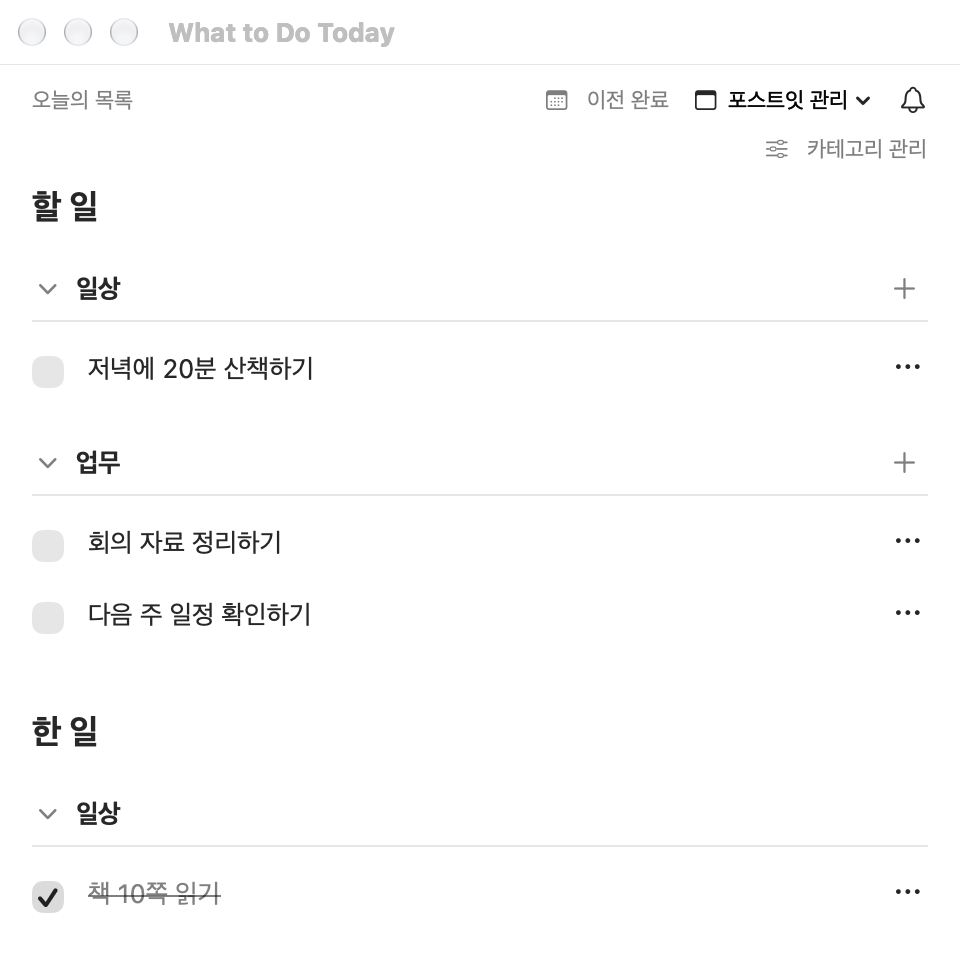
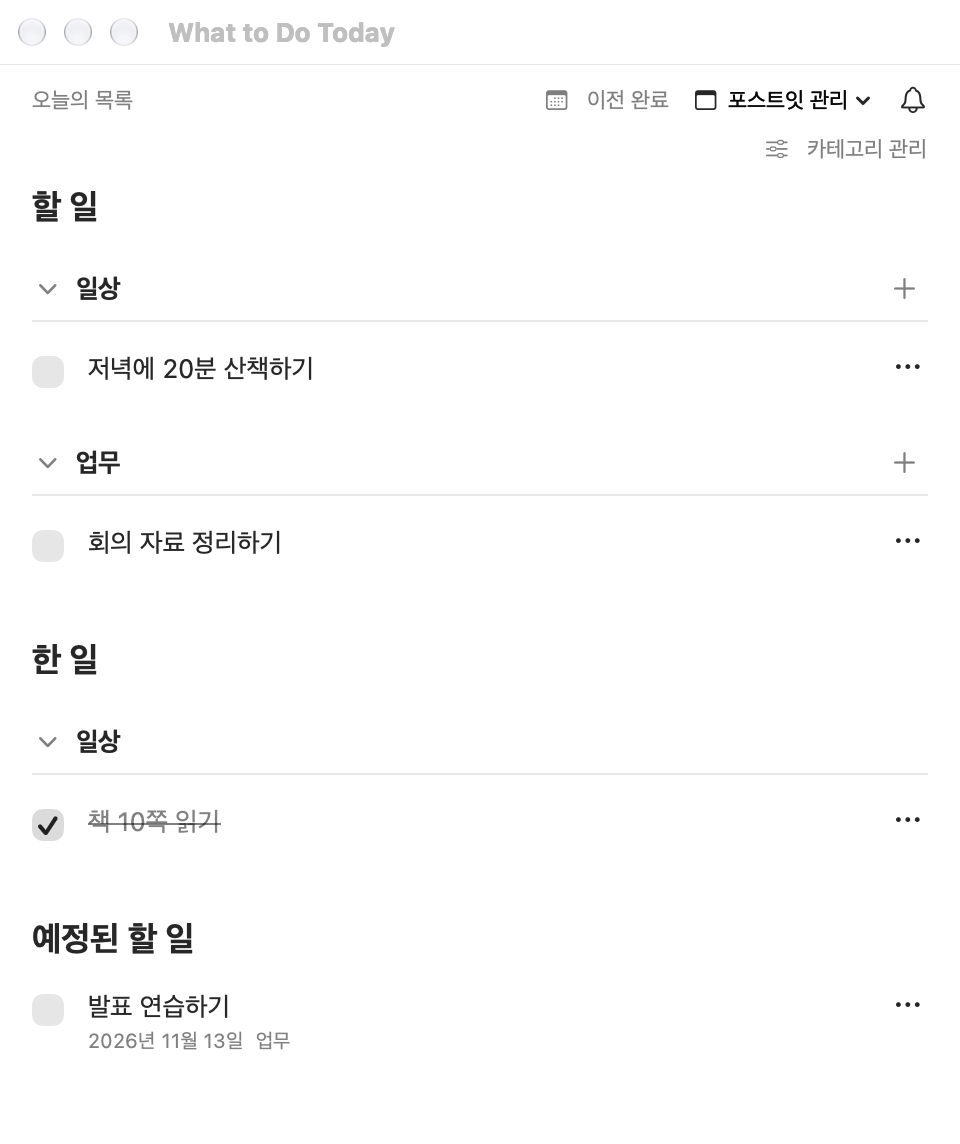
fix: guard widget updates and prepare v1.3.0 downloads

diff --git a/README.md b/README.md
@@ -10,24 +10,25 @@
 </p>
 
 <p align="center">
-  <a href="https://github.com/choubung/what-to-do-today/releases/latest"><strong>최신 릴리즈 받기</strong></a>
-  · <a href="docs/build.md">Xcode로 설치하기</a><br>
-  <sub>macOS 27.0.1 이상 · 앱 사용에 계정 가입 불필요</sub>
+  <a href="https://github.com/choubung/what-to-do-today/archive/refs/tags/v1.3.0.zip"><strong>v1.3.0 소스 ZIP 다운로드</strong></a>
+  · <a href="docs/build.md">설치 안내</a>
+  · <a href="https://github.com/choubung/what-to-do-today/releases/latest">최신 릴리즈</a><br>
+  <sub>macOS 27.0.1 이상 · Xcode로 빌드하는 소스 배포</sub>
 </p>
 
 <p align="center">
-  <img src="docs/images/app-preview.png" width="480" alt="일상과 업무 카테고리의 할 일과 완료 항목을 보여주는 앱 화면">
+  <img src="docs/images/app-preview.png" width="480" alt="오늘 할 일, 완료한 항목, 예정된 할 일을 보여주는 앱 화면">
 </p>
 
-## 시작하기
+## 설치하고 시작하기
 
-1. 릴리즈에 DMG가 있으면 열어서 **Install What to Do Today.command**를 실행합니다. 소스로 설치하려면 Xcode에서 빌드한 뒤 설치 스크립트를 실행하세요. [최신 릴리즈](https://github.com/choubung/what-to-do-today/releases/latest) · [빌드 및 설치 안내](docs/build.md)
-2. 앱의 **할 일**에서 카테고리 옆 **＋**를 눌러 첫 항목을 추가합니다. 새 카테고리는 **카테고리 관리**에서 만들 수 있습니다.
-3. 바탕화면을 우클릭하고 **위젯 편집**에서 **할 일** 위젯을 추가합니다. 중형은 한 페이지에 3개, 대형은 8개를 표시합니다.
+1. 위 소스 ZIP을 내려받아 압축을 풀고, [설치 안내](docs/build.md)에 따라 Xcode로 빌드한 뒤 설치합니다.
+2. 앱의 **할 일**에서 카테고리 옆 **＋**로 첫 항목을 추가합니다. 내일 할 일이라면 **날짜 지정**을 켭니다.
+3. 바탕화면을 우클릭하고 **위젯 편집**에서 **할 일** 위젯을 추가합니다. 위젯에서도 완료를 체크하거나 새 할 일을 적을 수 있습니다.
 
 `⌘N`으로 작은 입력 창을, `⌘1`으로 목록을 엽니다. 위젯의 **＋**도 작은 입력 창을 엽니다.
 
-업데이트할 때는 앱을 `⌘Q`로 종료하고 같은 설치 도구를 실행하세요. 새 앱을 설치한 뒤 이전 위젯 프로세스를 종료하고 목록을 다시 불러옵니다.
+이미 설치했다면 앱을 `⌘Q`로 종료하고 [업데이트 절차](docs/build.md#설치-및-업데이트)를 따르세요. 설치 도구가 위젯도 함께 다시 시작합니다.
 
 ## 이렇게 사용하세요
 

diff --git a/docs/build.md b/docs/build.md
@@ -1,6 +1,6 @@
 # 직접 빌드하기
 
-macOS 27.0.1 이상과 macOS 27 SDK를 포함한 Xcode가 필요합니다. [GitHub 릴리즈](https://github.com/choubung/what-to-do-today/releases/latest)에서 소스를 받거나 저장소를 복제하세요.
+macOS 27.0.1 이상과 macOS 27 SDK를 포함한 Xcode가 필요합니다. [v1.3.0 소스 ZIP 다운로드](https://github.com/choubung/what-to-do-today/archive/refs/tags/v1.3.0.zip)에서 소스를 받고 압축을 푸세요.
 
 저장소 루트에 `Signing.xcconfig`를 만들고 Xcode 계정의 Team ID를 입력합니다.
 
